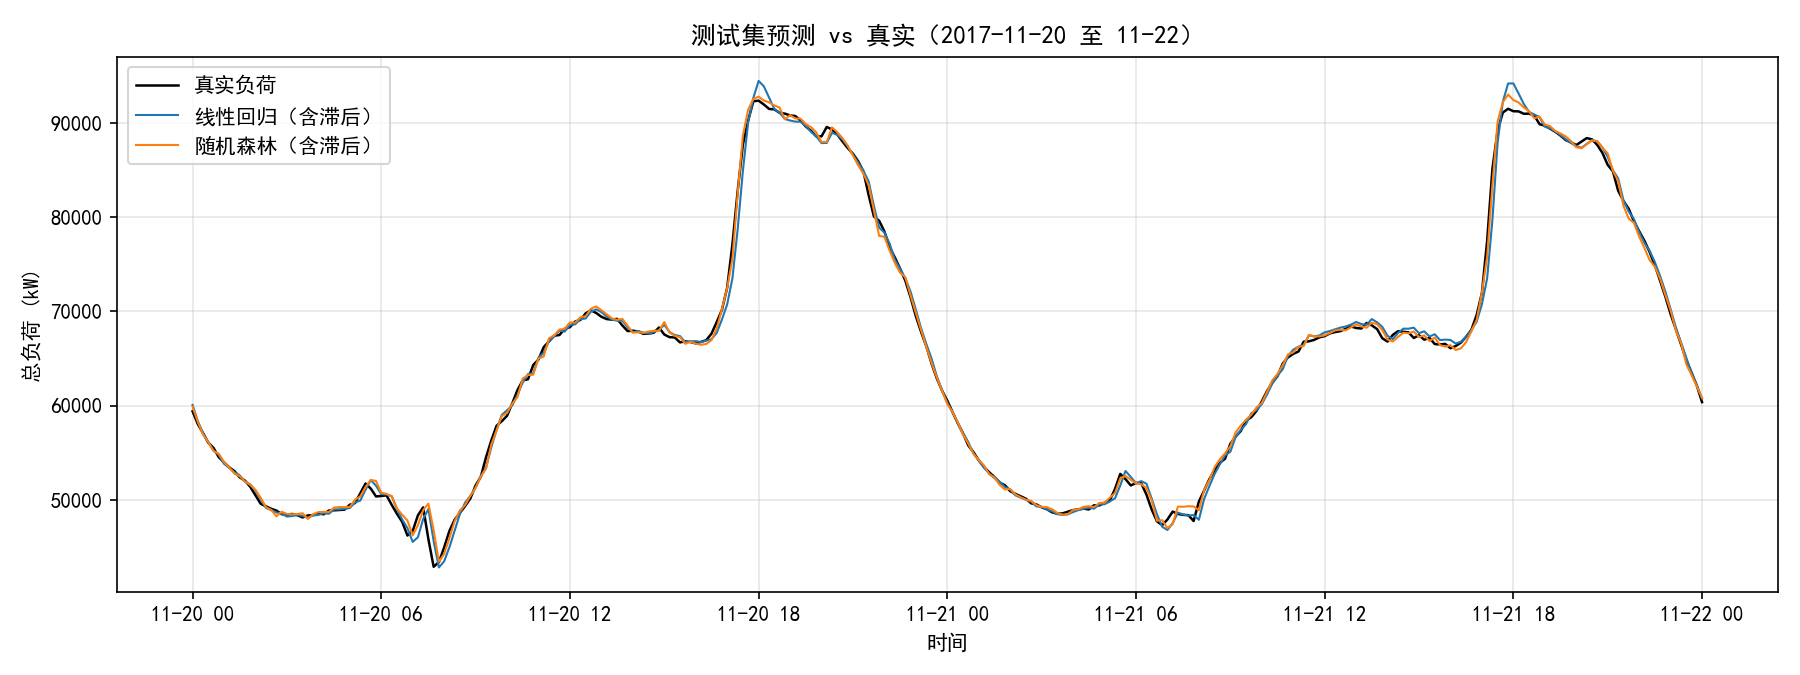
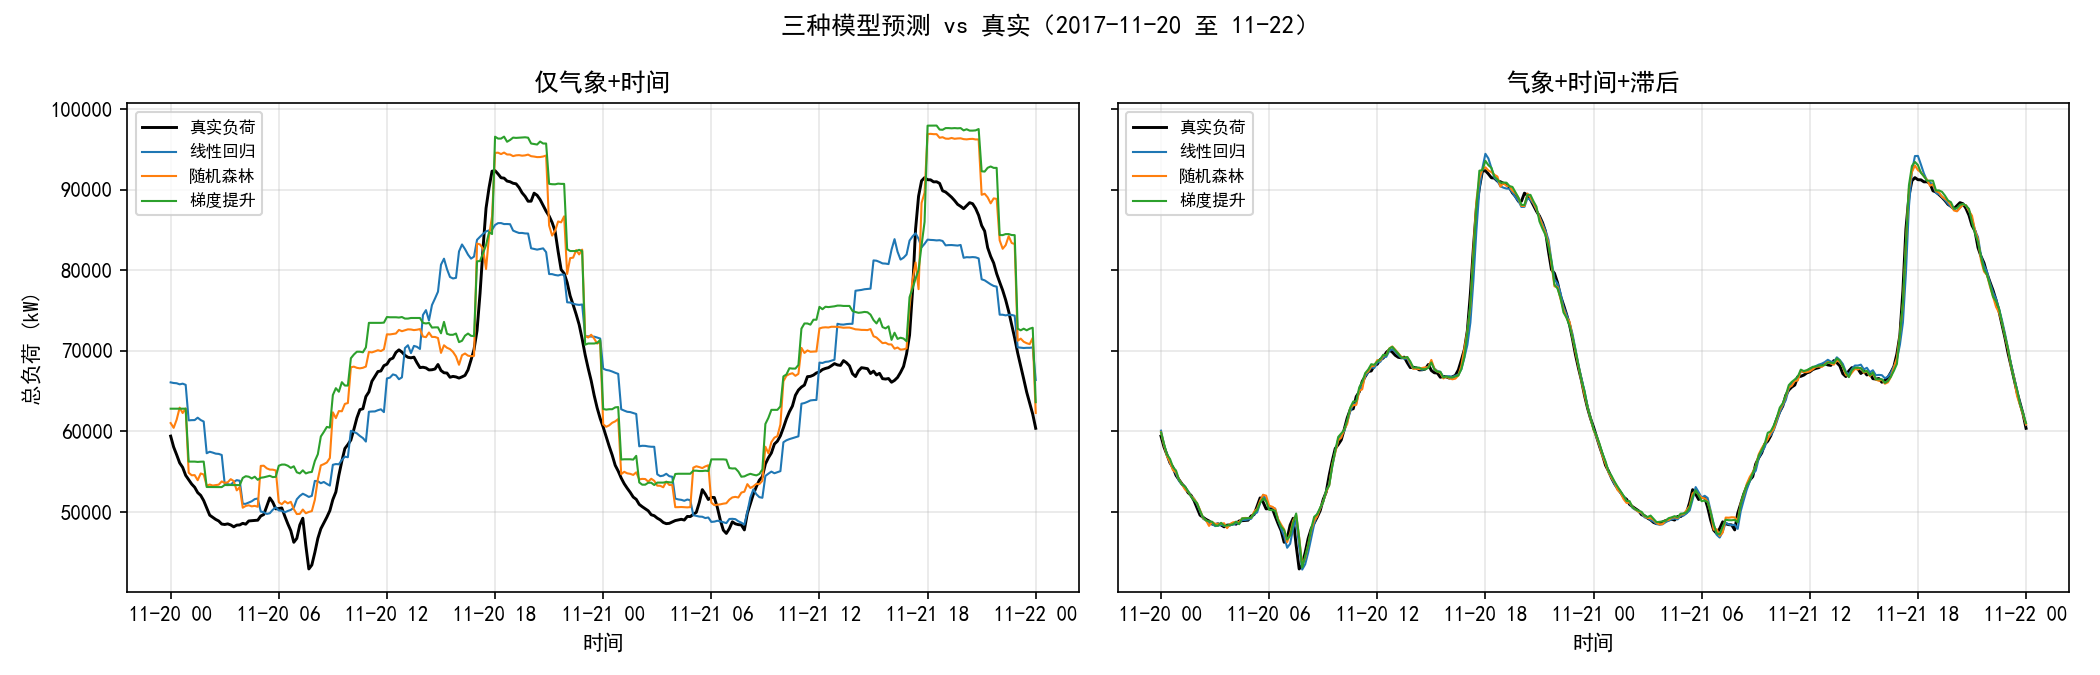
B: 图10改为三种模型×两种特征的预测对比，同步更新第6章图6-2说明

diff --git a/report/B_第6章初稿.md b/report/B_第6章初稿.md
@@ -53,7 +53,7 @@
 
 **第二，无滞后特征时，非线性树模型明显优于线性回归。** 仅用气象+时间特征时，随机森林的 RMSE（5,319 kW）比线性回归（7,006 kW）低约 24%，说明气象-负荷之间存在明显的非线性与交互（如高温下负荷加速上升、湿度与风速的联合作用），线性模型无法充分刻画。这正是成员C在第 5 章气象相关性分析基础上做进一步非线性建模的价值所在。
 
-**第三，加入滞后特征后，三种模型的差距缩小。** 此时线性回归（R²=0.9967）已非常接近随机森林（0.9970）与梯度提升（0.9973），梯度提升仅以微弱优势领先。最优模型（梯度提升+滞后）的 RMSE 为 736 kW，仅约为平均负荷的 1%，满足短期负荷预测的精度要求。图 6-2 显示测试集三天的预测曲线与真实负荷几乎重合，晚高峰（20 时）形态被准确捕捉；图 6-3 的散点图贴近对角线、残差近似零均值分布，未见系统性偏差。
+**第三，加入滞后特征后，三种模型的差距缩小。** 此时线性回归（R²=0.9967）已非常接近随机森林（0.9970）与梯度提升（0.9973），梯度提升仅以微弱优势领先。最优模型（梯度提升+滞后）的 RMSE 为 736 kW，仅约为平均负荷的 1%，满足短期负荷预测的精度要求。图 6-2 对比了三种模型在“仅气象+时间”与“气象+时间+滞后”两种设定下、测试集三天的预测曲线：无滞后时线性回归明显偏离真实、随机森林与梯度提升更贴近；加滞后后三者几乎都与真实重合、晚高峰（20 时）被准确捕捉；图 6-3 的散点图贴近对角线、残差近似零均值分布，未见系统性偏差。
 
 ### 6.6 本节小结
 
